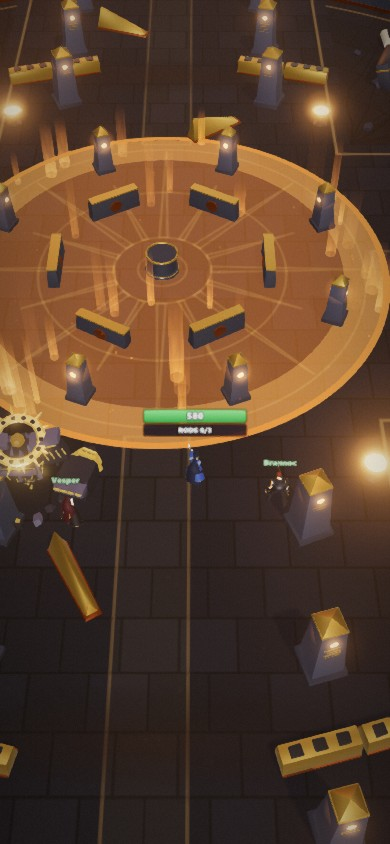
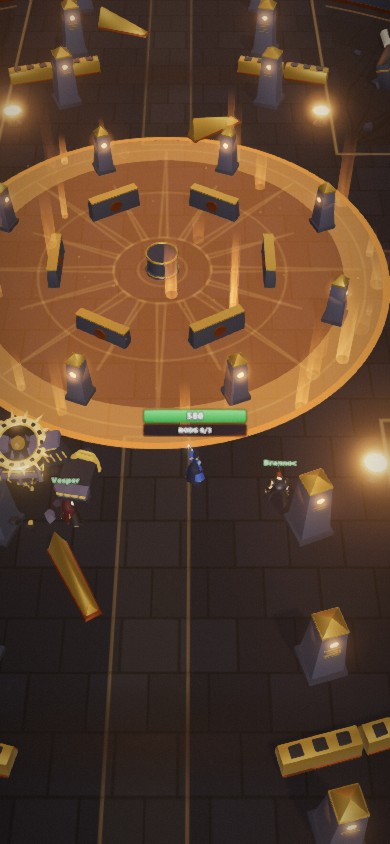
Raid: the Warden's party fight: docs, measurements, whom he hunts checked, the rubble not drawn until it shows
raid-check 234 rows (133 as they were, 101 new); the autopilot at bands 5, 10, 20 and 40; six and sixteen bots through the hub.

diff --git a/pipeline/tools/raid-check.js b/pipeline/tools/raid-check.js
@@ -1075,7 +1075,7 @@
       // would say of the others (how many stood in a zone) is fed in by hand, and what the brain reads of them is given to `aim`.
       {
         const { HOUR } = await import('/src/raid/sunWarden.ts');
-        const { BREACH, SUNFIRE, BRAND, CARRY, FOUR, fireRadius, hallFight } = await import('/src/raid/wardenHall.ts');
+        const { BREACH, SUNFIRE, BRAND, CARRY, FOUR, HUNT_S, fireRadius, hallFight } = await import('/src/raid/wardenHall.ts');
         const H = await import('/src/arenas/sunhall.ts');
         const hall = (band = 5, mode = 'play') => {
           d.startBoss({ def, link: new LocalLink(def, 1), seed: 'party', mode, band });
@@ -1358,6 +1358,31 @@
         check('Carry the Sun: behind the hero who shields, the carrier is not hit', take(() => send({ move: 'ray', fz: 10, x: 0.5, z: 20, target: 1, flag: true }), 2.8), 0);
         place(0.3, 19.5);
         check('Carry the Sun: the hero who shields takes the ray', take(() => send({ move: 'ray', fz: 10, x: 0.5, z: 20, target: 1, flag: true }), 2.8), 0.22);
+
+        // Whom he goes for (`BossDef.choose`). The brain asks it only with more than one screen, so it is asked here by hand: four
+        // heroes, two in the nave, one in each transept, nobody in the choir; `when` says he aimed at the lower seats longer ago.
+        hall(20);
+        {
+          const hs = [{ side: 0, x: 0, z: 30 }, { side: 1, x: 2, z: 31 }, { side: 2, x: 25, z: 7 }, { side: 3, x: -24, z: 8 }];
+          const ask = (time) => def.choose({ heroes: hs, boss: { x: 0, z: 3 }, time, when: (side) => side });
+          const quarter = (side) => H.quarterOf(hs[side].x, hs[side].z);
+          yes('whom he goes for: no fire and nobody carrying, it is the brain to say', ask(0) === undefined);
+          hallFight.carriers.add(3);
+          yes('whom he goes for: whoever carries a shard', ask(0) === 3);
+          hallFight.carriers.add(2);
+          yes('whom he goes for: of two carriers, the one he aimed at longer ago', ask(0) === 2);
+          hallFight.carriers.clear();
+          hallFight.fire = 12;
+          const first = ask(100);
+          yes('in the sunfire he hunts one quarter of the court', first === 2 && quarter(first) === 1);
+          yes('in the sunfire: and stays with it', [101, 105, 100 + HUNT_S - 1].every((t) => ask(t) === first));
+          const next = ask(100 + HUNT_S + 0.5);
+          yes('in the sunfire: then on to the next quarter with someone in it, past the empty one', next === 3 && quarter(next) === 3);
+          yes('in the sunfire: and round to the nave, to the one he aimed at longer ago', ask(100 + 2 * HUNT_S + 1) === 0);
+          hallFight.fire = 0;
+        }
+        fresh(0, 1);
+        yes('the court for two: whom he goes for is the brain\'s to say, whatever burns', def.choose({ heroes: [{ side: 0, x: 0, z: 10 }, { side: 1, x: 3, z: 10 }], boss: { x: 0, z: 3 }, time: 0, when: () => 0 }) === undefined);
 
         // The Four Hours.
         hall(40);

diff --git a/pipeline/tools/warden-shots.js b/pipeline/tools/warden-shots.js
@@ -150,8 +150,21 @@ if (!phone) {
   me(3, 11);
   stand([[-7, 13], [7, 16], [-5, 22], [4, 26], [16, 9], [-17, 5], [9, -4], [-8, -9], [2, -14], [-11.6, 20], [11.5, -6]]);
   zoomTo(1.7);
+  // What the room costs to draw on a phone's screen, whole and broken open: draw calls and triangles of one frame.
+  // (Counted over the whole frame: the game draws in several passes, and the counter starts over with each.)
+  const cost = () => {
+    const info = api.renderer.info;
+    info.autoReset = false;
+    info.reset();
+    api.render();
+    const seen = { calls: info.render.calls, triangles: info.render.triangles };
+    info.autoReset = true;
+    return seen;
+  };
+  out.whole = cost();
   send({ move: 'breach' });
   step(BREACH.warn + 6);
+  out.open = cost();
   me(15, -5);
   boss(10, -11);
   step(0.6);
@@ -164,6 +177,7 @@ if (!phone) {
   me(2, 7 + hallFight.fire + 2);
   step(0.6);
   out['warden-phone-sunfire'] = shot();
+  out.sunfire = cost();
 }
 out.arena = d.currentArena?.id;
 return out;

diff --git a/src/arenas/sunhall.ts b/src/arenas/sunhall.ts
@@ -356,6 +356,11 @@ export const sunHallArena: ArenaDef = {
       }
       before.group.visible = since < 0.4;
       after.group.visible = since > 1.6;
+      // The rubble stands inside the blocks until they fall: not drawn till then (a phone has draw calls to spare for nothing unseen).
+      for (const i of LAYOUT.rubble) {
+        const o = cover[i];
+        if (o) o.visible = since >= 0;
+      }
     };
     const me: HallShow = {
       reset() { since = -1; shake = 0; place(); },

diff --git a/pipeline/tools/party-raid.py b/pipeline/tools/party-raid.py
@@ -16,7 +16,8 @@ one public raid room, the host starts, every screen's autopilot plays. To find w
 --hall   the Sun Warden's hall (with --boss sun and three or more players): every second each screen says whether its hall
          has broken open, how far its sunfire has come, and how much cover stands. Prints when the hall broke on each screen
          (the fight's own clock), whether the screens agree on cover each second, and which of his moves each screen saw;
-         pictures as the hall breaks and of the sunfire.
+         pictures as the hall breaks and of the sunfire. With more than ten players the boost stops when High Noon begins,
+         so Carry the Sun is played unhelped (sixteen players are a fight tuned for twenty).
 
 It starts its own dev server (the game's hub lives in it) on the port and stops it by its PID; one already there is used
 and left alone. The bots' accounts are local (server/data/, git-ignored): delete them after (names start with v5bot). It
@@ -196,11 +197,18 @@ async def run(args):
             twin_seen = False
             # The Warden's hall: when each screen's broke open (the fight's clock), seconds on which the screens' cover differed.
             broke, fire_most, hall_last, cover_apart, hall_shots = {}, {}, [], [], set()
+            boost_off = False
             while time.time() - t0 < args.seconds:
                 await asyncio.sleep(1 if args.boss == "ash" or args.hall else 5)
                 t = time.time() - t0
                 now = [await pg.evaluate("() => _botRaid()") for pg in pages]
                 if args.hall:
+                    # More than ten players (Carry the Sun, The Four Hours): the boost only brings High Noon on, then the bots play unhelped.
+                    if args.boost and args.players > 10 and not boost_off and all(s.get("phase", 0) >= 1 for s in now):
+                        boost_off = True
+                        for pg in pages:
+                            await pg.evaluate("() => { window._botBoost = 0; }")
+                        print(f"      boost off at {t:.0f} s: High Noon has begun")
                     hall = [await pg.evaluate(HALL_JS) for pg in pages]
                     if all(hall):
                         hall_last = hall
@@ -210,6 +218,11 @@ async def run(args):
                             fire_most[i] = max(fire_most.get(i, 0), h["fire"])
                         if len({h["cover"] for h in hall}) > 1:
                             cover_apart.append((round(t), [h["cover"] for h in hall]))
+                        if any("carry" in h["seen"] for h in hall) and "hall-carry" not in hall_shots:
+                            hall_shots.add("hall-carry")
+                            await asyncio.sleep(9)
+                            await shot(pages[0], out / "hall-carry.png")
+                            await shot(pages[-1], out / "hall-carry-last.png")
                         for name, when in (("hall-breaking", any("breach" in h["seen"] for h in hall) and not any(h["open"] for h in hall)),
                                            ("hall-open", all(h["open"] for h in hall)), ("hall-sunfire", min(h["fire"] for h in hall) > 9)):
                             if when and name not in hall_shots:
@@ -259,6 +272,7 @@ async def run(args):
                 apart = f"{max(broke.values()) - min(broke.values())} ms apart" if len(broke) == len(pages) else f"only on {len(broke)} of {len(pages)} screens"
                 print(f"hall: broke open on every screen within {apart}; the sunfire came as far as {[fire_most.get(i, 0) for i in range(len(pages))]} m; "
                       f"cover at the end {[h['cover'] for h in hall_last]}; seconds with cover apart: {len(cover_apart)} {cover_apart[:6]}")
+                print(f"hall: kneels {[s.get('kneels') for s in now]}; hits by Carry the Sun's Noon {[s.get('hits', {}).get('carry', 0) for s in now]}; down {[bool(s.get('down')) for s in now]}")
                 for i, h in enumerate(hall_last):
                     print(f"hall: screen {i} saw {h['seen']}")
             if twin_seen:

diff --git a/docs/architecture/raid.md b/docs/architecture/raid.md
@@ -199,6 +199,12 @@ Everything else follows from these, and they are why two screens work without re
 3. **Each screen decides hits on its own hero only.** Walking out of a zone is a real dodge, as in a duel.
 4. **Everything both screens must agree on goes through the `RaidLink`:** boss HP, phase, stagger, kneeling, who is down, how it ended.
 
+For a party, rule 1 needs more than one hero's spot. `AimContext.heroes` gives a move's `aim` the heroes standing (it runs on the
+brain's screen only), and `aim` may name a `target` of its own for the cast. The hub passes a cast on field by field, so what the
+brain found rides in the fields there are (a hero in `target`, a count in `x`, yes or no in `flag`): see the Sun Warden's party
+mechanics. And for rule 4, a `stand` zone with `Threat.tally` is only counted: the hub says how many stood in it, and its move says
+what that means for everyone. `BossDef.choose` lets a boss name whom its brain goes for next.
+
 ## The pieces (`src/raid/`)
 
 | File | Role |
@@ -208,6 +214,7 @@ Everything else follows from these, and they are why two screens work without re
 | `brain.ts` | `BossBrain`: who it aims at, which move comes next, where it walks. Runs on one screen. Its rolls are seeded |
 | `script.ts` | `BossScript`: plays casts, draws their zones, lands them, decides the hits on this screen's hero. Several run at once, in both colours |
 | `sunWarden.ts`, `ashEmber.ts`, `heart.ts` | The bosses: numbers, phases, moves. `ashEmber.ts` makes Ash's and Ember's moves for a room (`movesFor`): the pit for two, and a party's pit for Twin Flames (`twinFlames`) |
+| `wardenHall.ts` | The Sun Warden's fight for a party beyond his own moves: the hall breaking open, the sunfire of his last phase, Branded, Carry the Sun, The Four Hours, the turns his great mechanics take, and whom he hunts |
 | `twin.ts` | Twin Flames: the ghost world and link that let one screen play the other boss's script as a look, the furious numbers, and `TwinLocalLink`, the two HP pools on one screen for the check tool |
 | `stage.ts` | `stageMove`: a boss's stage, its adds and their shots, from a few numbers. Both bosses have one |
 | `fxShow.ts` | The big moments' effects: `ShowFx`, one per fight (`PlayContext.show`), plays pooled one-shot pieces on its own clock: a shockwave over the floor, a rising column, shards, a meteor, a lava arc, rays along the floor, a charge-up, a beam's flash, and `triumph` for a mechanic done right. `Shell` (a stage's barrier, lit at its rim) and `RageAura` (the red heat round an enraged boss) |
@@ -272,14 +279,16 @@ all behind `party` in `src/raid/sunWarden.ts`, so the fight for two reads none o
 
 | What | In the hall |
 |---|---|
-| The Hour Strikes | Only here, in every phase (`HALL_PHASES`). Below |
+| The Hour Strikes | Only here, in every phase (`hallPhases`). Below |
+| The hall itself | Breaks open as The Long Hour begins; sunfire spreads from the Sun Well in Last Light. Below: "The hall transforms" |
+| Branded, Carry the Sun, The Four Hours | Only in a fight tuned for 10, 20 and 40 (`BossMove.minBand`). Below |
 | Enrage | 3:15 instead of 2:30: the party walks 40 m up the nave to him first, and each hour takes the fight away from him for a while |
 | What he aims (Pillar Fall, Fists, the ray) | Kept 1.8 m inside the hall's walls (`intoHall`), so no stone lands in the stone. At a hero in the gate's passage: down its middle |
 | Sun Order | Its wedges reach 19 m from the Sun Well (the crossing and its corners), not the whole floor: deep in an arm no edge of a wedge is near enough to step over |
 | Eclipse | Its far ring ends 20 m from him instead of at the rim |
 | Gathering Noon, the Long Hour's blow, Walking Sun, the late sunfire | The whole hall, as in the court. The stone round the hall hides what is drawn past its walls |
 | The hall's own walls | Cover like any other: round a corner Noon, the ray and the dial's blow do not reach. They never fall (`Obstacle.fixed`): a wall that saved a hero is only reported when it is a screen |
-| Sun shards | Whoever picks one up brings it in (one way in for each of the 40 seats). Still two shards, whatever the party's size |
+| Sun shards | Whoever picks one up brings it in (one way in for each of the 40 seats). Gathering Noon still has two shards, for a party under 16; for 16 and more Carry the Sun stands in its place, with a shard for every five |
 | Starts | Rows of eight just inside the south gate (`starts`, `partyStart` in `src/duel.ts`). Seat 39 of 40 stands on a fallen halo piece and is pushed off it |
 | Gates | The way in stands in the gate's passage; the way out before the throne, 4 m from the choir's end (`BossDef.gates.exitR`) |
 
@@ -305,6 +314,153 @@ bell."). Pictures: `docs/raid/hour-called.jpg`, `hour-called-far.jpg`, `hour-lat
 
 In forty fights of ten heroes alone on the autopilot in the hall, about three hours were called a fight, and the bell hit five times
 in all.
+
+### The hall transforms, and what comes only for a big party (2026-11-12)
+
+User, 2026-11-12: "when there will be second stage the arena will transform, and also at the final stage", and "mechanics that only
+is cast when there is at least 10 players, and for 20 and 40". All of it is in `src/raid/wardenHall.ts`; none of it is named by a
+phase of the court for two. Pictures (`pipeline/tools/warden-shots.js`): `docs/raid/warden-cracking.jpg`, `warden-falling.jpg`,
+`warden-open-far.jpg`, `warden-open.jpg`, `warden-hour-open-far.jpg`, `warden-sunfire-far.jpg`, `warden-sunfire.jpg`, `warden-branded.jpg`,
+`warden-branded-burst.jpg`, `warden-carry-far.jpg`, `warden-carry.jpg`, `warden-four-far.jpg`, `warden-four.jpg`,
+`warden-phone-open.jpg`, `warden-phone-sunfire.jpg`.
+
+| | When | For |
+|---|---|---|
+| The hall breaks open (`breach`) | As The Long Hour begins (50 % HP), beside his stage | Any party |
+| The sun comes down (`sunfall`) | As Last Light begins (35 % HP) | Any party |
+| Branded (`brand`) | From High Noon on, about every 28 s, by its own clock | A fight tuned for 10 or more |
+| Carry the Sun (`carry`) | It opens High Noon where Gathering Noon did, and then takes turns with the hour | 20 or more |
+| The Four Hours (`four`) | From High Noon on, in the turns below | 40 |
+
+**What the hub lets through decides how they are built.** The hub passes a cast on field by field (`boss_cast` in `server/hub.mjs`:
+id, move, step, x, z, fx, fz, dir, seed, target, alone, rim, form, flag, which), so a new field on `BossCast` would not arrive. What
+the brain reads of the heroes therefore rides in the fields there are: **who** in `target` (one cast for each hero: `BossMove.aim` may
+return a `target` of its own), **how many** in `x` of a move with no body, **yes or no** in `flag`. `AimContext.heroes` gives `aim` the
+heroes standing: `aim` runs on the brain's screen only, so rule 1 holds. What the whole party must agree on comes back from the hub:
+who took a shard or broke a stone (`done`), and how many stood in a zone (`stood`). A zone that is only counted has `Threat.tally`:
+the move says what the count means, and what it returns the whole party pays.
+
+**The hall breaks open.** The four corner blocks of the stone crack for 6 s (`BREACH.warn`; 3 s when it has to come with the sunfire):
+a pale orange band 4 m wide runs along each wall that goes, the blocks tremble, chips and dust come off them, and the camera jolts
+three times. Then they fall in clouds of dust, the low south ones first and each from the hall's corner outward (32 pieces, `falls` in
+`src/arenas/real/sunhall.json`, cut in `blender/arenas/real/sunhall.py`). What changes in the game at that moment, on every screen
+from the same cast:
+
+| | |
+|---|---|
+| The walls between the arms | The eight stretches listed as `opens` leave the game (`PlayContext.breakCover`): walk, sight, bolts and his ray go through |
+| The floor | The cross and the round court between its arms, 36.4 m from the Sun Well to its wall (`HALL_COURT`: a circle through the transepts' far corners). The ends of the nave (to 44 m) and of the choir (to 40 m) stay beyond it. `inHall`, `intoHall` and so his aim answer for the new shape |
+| An arm | Its quarter of the court: the quarter turn round the arm's line, from 13 m off the Sun Well outward (`inArm`). The Hour Strikes burns three quarters and the crossing, drawn as three wedges and a quarter disc; the gold line across the safe arm's mouth is a bow 13 m from the well |
+| Rubble | 24 pieces, six in each corner: low slabs and blocks in the south (1.1 m, under the 1.3 m of stone that hid them), tall ones in the north (2.6 m). Cover like any other; the twelve slabs are walls and can be broken |
+| The court's own wall | 24 stretches of fixed wall on its circle |
+| Who is hit | Whoever stands within 4 m of a wall that goes, as it goes: 30 % of max HP (`BREACH.share`). Nobody is pushed |
+| The walk planner | Charts the floor anew by itself: its chart is keyed by the room's fixed walls (`Navigator.chart`) |
+
+**How the rubble and the court's wall are "added".** They are not: they are in the room's obstacle list from the start, standing
+inside the stone, where no walk, look or ray reaches them until the walls in front of them go. So nothing has to be added at the
+same moment on every screen, a stone raised by `addStone` (which is timed, round, and breaks under his ray for a reward) is not
+misused for it, and nobody can stand where rubble lands, so nobody has to be pushed out of it. It is why the hall has 138 obstacles
+with its corners, not 86.
+
+**The cast.** `breach` comes by the phase's clock (`BossPhase.timed`, at once), not as the phase's opener: that is the stage, whose
+cast is cut short when its stones are broken early, and the fall must not be. One hit can take him through two phases at once; then
+The Long Hour's clock never runs, and `sunfall` breaks the hall itself. The room's state (`hallBreak` in `src/arenas/sunhall.ts`,
+`hallFight`) is set only from a cast and reset by `resize` before each fight.
+
+**The sun comes down.** Sunfire wells up at the Sun Well for 5 s, then burns and spreads: 6 m from the well at first, 0.12 m a
+second, 24 m at last, after two and a half minutes (`SUNFIRE`, `fireRadius`). It costs 6 % of max HP a second (twice that once he
+has enraged). That leaves a ring 12 m wide inside the court's wall, and the ends of the nave and the choir. Its edge is drawn in the
+zones' "leave" colour. One `Threat.hits` that stays to the fight's end, so each screen works out its own hero from the cast's time.
+
+| What | In the sunfire |
+|---|---|
+| He | Leaves the middle: 3 m/s instead of 2, and he comes within 2.2 m of his target instead of 4.5, so a hero who fights hand to hand need not stand in the fire for it (`SUN_WARDEN.speed`, `keepAt`) |
+| Whom he goes for | One quarter of the court at a time, 14 s each, then the next with someone in it (`BossDef.choose`, `wardenChoice`). Alone and for two the brain's own rule, as it was |
+| The Hour Strikes | Three of the four quarters and the crossing, as before; the lit road's goal lies past the fire. Branded may come during it |
+| Gathering Noon | Its shards fall 7 m past the fire, and are home 3.5 m outside its edge |
+| Carry the Sun, The Four Hours | A shard is home 1.6 m outside the fire's edge, and that edge moves; the arms' tasks lie past it |
+| Anchors | Its circles lie either side of him, 7.6 m off, where the group he is with can reach them; never nearer the fire than 4 m |
+| What closes in past 5 minutes (`late`) | In the hall it comes from the walls inward to 26 m ("The hall burns"), so the two leave nothing to stand on. The court for two keeps "The sun comes down", from 7 m outward |
+
+**His great mechanics take turns.** The Hour Strikes, Carry the Sun and The Four Hours each hold the floor for about half a minute
+(`BossMove.holds`) and come as soon as they are ready. Left alone they followed one another without a gap (measured: Carry the Sun,
+the hour, Carry the Sun, the hour, back to back). Now only the one whose turn it is stands in his list, and none for 16 s after one
+ends (`REST`, `nextGreat`, on the brain's screen): the hour for any party; the hour and Carry the Sun in turn for 20 or more; the
+hour, Carry the Sun, the hour, The Four Hours for 40. In his last phase Branded may come during any of them: two mechanics at once.
+
+**Branded** (10 or more).
+
+| | |
+|---|---|
+| Who | One standing hero in eight, five at most, drawn by the cast's seed from those the brain sees standing (`BRAND.per`, `most`). Ten standing: one; twenty: three; forty: five |
+| What shows | A sun over each branded hero's head that grows, and an orange ring 5 m round it that follows it. Only a look (`heroAt`): to an AI the ring of another is a zone to walk out of that never lands |
+| The burst | 5 s later, where the brain sees each of them stand then: a cast of its own for each (the move's last five steps), landing 0.4 s after it comes |
+| What it costs | Whoever else stands in it 30 %, the branded hero 8 % |
+| The whole party | The hub counts who stood in each burst. Two or more beside the branded hero: everyone pays 6 % for each of them, 24 % at most ("the brand burns the crowd") |
+| A kneel or a new phase | Drops the bursts still to come, as it drops any move's later steps: the brands go out |
+
+**Carry the Sun** (20 or more). The party's Gathering Noon, in its place.
+
+| | |
+|---|---|
+| Shards | One for every five standing, eight at most (`CARRY.per`, `most`), counted by the brain. In the hall whole: in turn at three quarters of each arm's length (33 m down the nave, 30 m up the choir, 25.5 m out each transept), from the fifth on two an arm. In the round court: evenly round it, 30 m from the well. Each on open floor (`freeSpot`, from the hall as it was built, so every screen finds the same spot) |
+| Carrying | Whoever walks over one carries it, 15 % slower, and brings it to the Sun Well; one shard a hero. The hub says who took which |
+| His ray | Comes for a carrier (`wardenChoice`), and throws back 5 m whoever it hits. It breaks on cover and on a fallen stone as always, and on a hero: the brain finds the first hero standing in its way and flags the cast with that hero's spot; the ray ends there, and that hero takes it for the carrier |
+| Meanwhile | He stands 3 s for the call, then does only Sun Ray and Pillar Fall (whose stones break the ray) |
+| Noon | 36 s after the call (never under 32 s at a higher tier). Everyone pays 12 % and 56 % shared out over the shards not home: none home 68 %, one of four missing 26 %. No cover saves from it. All home: no Noon, 5 % of his HP, and he kneels (`RAID_REWARDS.sun.carry`) |
+
+**The Four Hours** (40). Each arm gets a task at the same time; the seed turns the tasks round the arms. A word stands over each arm
+(CARRY, HOLD, BREAK, STAND), and his cast bar names the arms still open ("The Four Hours · NAVE EAST CHOIR WEST").
+
+| Arm | What it asks, of forty standing | Done when |
+|---|---|---|
+| Carry | Two shards near its far end, to the Sun Well | Both are home |
+| Hold | Three gold circles | Each has a hero in it as the tasks end |
+| Break | Three of his hour stones (1,392 HP each at band 40) | All three are broken |
+| Stand | Three lanes down the arm: two burn (25 %), one is gold | Five heroes stand in the gold lane as the tasks end |
+
+The tasks end 34 s after the call, 4 s before the hall burns, so the hub's counts are back by then. Each arm done pays a quarter of
+his stagger gauge (`RAID_REWARDS.sun.foura` to `fourd`): all four, and he kneels. Each arm not done burns the whole hall for 18 % of
+max HP: all four, 72 %. With fewer standing each arm asks less (twenty: one shard, two circles, three in the lane, stones of half
+the HP).
+
+**Measured** (2026-11-12). One autopilot hero, the boss's HP for one, the same ten heroes as before (Lyra, Kaia, Sefu, Isolde,
+Vesper, Brannoc, Nyx, Bram, Zephyr, Sirix), two fights each at every size (`_raid(names, 2, { band })`). No errors, and no fight that never ended.
+Twenty fights swing by more than the rows differ, so read them as: nothing is broken, and one hero alone is not what these are for.
+
+| Tuned for | Clears | Seconds a fight | Damage a second | Fights that enraged | Hits by the new things, in 20 fights | What killed most |
+|---|---|---|---|---|---|---|
+| 5 | 6 of 20 | 131 to 210 | 13 to 24 | 6 | the sunfire 3 | Fists 6, Noon 2, the sunfire 2, Anchors 1 |
+| 10 | 4 of 20 | 134 to 199 | 12 to 24 | 6 | the falling walls 1, the sunfire 10, Branded 29 | Fists 5, Stone Sweep 4, the dial 2, Sun Order 1 |
+| 20 | 2 of 20 | 96 to 237 | 14 to 23 | 6 | Branded 38, Carry the Sun's Noon 1 | Branded 8, Fists 5, Pillar Fall 2, Carry the Sun's Noon 1 |
+| 40 | 0 of 20 | 146 to 227 | 13 to 21 | 11 | the sunfire 9, Branded 34, The Four Hours 5 | The Four Hours 4, Fists 3, Stone Sweep 3, Anchors 2 |
+
+One hero stands for the whole party here. So it is always the branded one: the light hit about every 28 s, which nothing avoids
+(29 to 38 of them in twenty fights; at 20 it was the last blow eight times). It carries the one shard itself: Noon landed on it
+once in twenty fights. It cannot do four arms at once: The Four Hours hit it five times in twenty fights, and four of those were
+the last blow. The falling walls caught it once in the 80 fights, and the sunfire burnt it 22 times in them.
+
+**A real party through the real hub** (`python pipeline/tools/party-raid.py <out> --players 6 --seconds 240 --boost 30 --hall`: six
+headless pages, six throwaway accounts, a fight tuned for ten, every bot also taking 30 HP a second off him so the fight ends).
+Run twice. The second: the hall broke open on all six screens within 0.36 s of each other (the cast goes through the hub, and each
+screen counts its 6 s from when it came); the sunfire had come 12.1 m on every screen when he fell; every screen had the same cover
+at the end (130 pieces) and the same boss HP all the way, within one message; the screens' cover differed on 3 of 165 seconds, by one fallen stone that
+one screen had a moment longer; nobody fell, no errors, won after 2:38 of fight (the hall broke at 1:10, the sunfire began at
+1:41). The first run: won after 3:02 with three of six standing and no errors; its bots were burnt by the sunfire 7 to 13 times
+each, the second run's 0 to 7. Pictures with the game's own HUD:
+`docs/raid/warden-online-breaking.jpg`, `warden-online-open.jpg`, `warden-online-sunfire.jpg`.
+
+**Sixteen bots, a fight tuned for twenty,** once (`--players 16 --boost 60 --hall`; this computer runs sixteen pages, slowly). Carry
+the Sun was cast (it is in the lists of the two screens that were read; the other fourteen's were cut off the output) and the
+host's bot carried a shard, so the hub had said who took it (`hall-carry.png` of that run). The hall broke, the sunfire came,
+nobody fell, no errors on any of the sixteen. Its end was not seen: the boost had him at 51 % HP nine seconds into it, and his stage
+begins at 50 % and calls it off. The screens' hall broke within 5 s of each other in that run, against 0.36 s with six pages: most
+likely sixteen pages on one computer running slowly, but that was not looked into.
+
+**What the room costs to draw** (one frame at 390 x 844 with eleven partners, counted by the renderer): 684 draw calls and 458,000
+triangles with the hall whole, 615 and 450,000 once it is open, 665 with the sunfire. The 32 falling pieces are about 70 of the
+calls while they stand; the rubble is not drawn until they fall. Not measured on a real phone, and not against the hall as it was:
+its file had 70 objects in 236 drawn parts, and has 126 in 438 now.
 
 ## Ash and Ember
 
@@ -509,6 +665,14 @@ Two things a room that is not round needed in the walk planner (`src/nav.ts`):
   squares, by the part each can be reached in (`Navigator.parts`); only an order into another part, or into one of the room's own
   walls, is moved. A room without such walls has no chart and nothing changes.
 
+**It breaks open** (2026-11-12). The four corner blocks are cut in the Blender file into what stays (past the round court's wall,
+36.4 m from the Sun Well) and 32 pieces that fall, each an object of its own (`fall<corner>_<piece>`, listed in the json as `falls`
+beside `opens`, the walls that go, `rubble` and `court`). `hallBreak` in `src/arenas/sunhall.ts` is the room's state: `crack` makes
+the pieces tremble, `fall` drops them (each after its own delay, the tall north ones last) and makes `inHall`, `intoHall` and
+`inArm` answer for the round court; `reset` before each fight. The lights on the blocks go out with them, and the court's own
+windows are lit once they are down. The floor under the blocks is drawn from the start: bare rock in rough slabs round the well,
+cracked from the hall's corners. Rubble and the court's wall are obstacles from the start (see the Sun Warden, above).
+
 Six of its corners lie behind a brazier that stands a body's width from both walls. A hero pushed in there stood in a pocket the
 planner knows no way out of, so each is solid to the game, from the brazier to the corner (`CORNERS`), with nothing drawn for it.
 
@@ -572,8 +736,18 @@ it, casting does), and it gets up with half its HP. Twice a fight per hero. Both
   bots through the hub. What forty heroes do to The Hour Strikes (a crowd in one arm's mouth) was not seen. Its cost on a phone was
   not measured, only counted: late in the count about 45 tongues of flame and 300 embers at once, and 42 columns more for under a
   second at the bell; each tongue and column is a draw call of its own.
-- **The Warden's mechanics are not scaled to the band.** Noon still asks for two shards and Anchors for two circles, whatever the
-  party's size; only his HP and gauge grow.
+- **The Warden's older mechanics are not scaled to the band.** Gathering Noon (under 16 players) still asks for two shards and
+  Anchors for two circles; his stage has three stones whatever the party's size.
+- **The Four Hours has not crossed the real hub, and Carry the Sun only its beginning.** Six bots are a fight tuned for ten, which
+  has Branded and the hall's two changes. Sixteen bots saw Carry the Sun cast and a shard picked up, not its end; thirty-one pages
+  were not tried. Both are built from what the hub already carries (who took a spot, how many stood in a zone, a reward by its
+  key), and `_raidCheck` feeds those by hand.
+- **A shard's carrier can still cast.** The design says it cannot; that needs `src/duel.ts`.
+- **A carrier that falls keeps its shard,** and gets it home only if someone gets the hero up in time.
+- **A kneel or a new phase puts the brands out:** it drops the bursts still to come, as it drops any move's later steps.
+- **The hall has 138 obstacles** with the rubble and the court's wall. A walk's plan there costs more than it did with 86: an
+  autopilot fight of about 150 s ran in 3 to 11 s here, against about 4 s before. Not measured on a phone.
+- **A screen that takes the brain over** starts his great mechanics' turns from the first, with no breath before it.
 - **The autopilot fights worse in the hall than in the court:** 9 clears of 40 against 8 of 20 for the same ten heroes, and its
   fights are 30 to 70 s longer. It walks 40 m to him first, and during an hour it stands at the safe arm's mouth, where a melee hero
   does not reach him. A person would lead him into the arm.
@@ -656,6 +830,16 @@ it, casting does), and it gets up with half its HP. Twice a fight per hero. Both
 - `_raidCheck()` also has the hall's rows: the hour never comes in the court for two; in the hall each seed's arm is safe and the
   rest is hit; the bell's time and its floor at a higher tier; what he may do meanwhile; a stage calling it off; the autopilot's run
   from the gate to the choir; the hall's walls as cover that stands; his aim and his floor-wide moves in the hall.
+- `_raidCheck()` also has the party's rows (101 of its 234): which band sees which mechanic, and his great mechanics' turns; the
+  hall's shape before and after it breaks, who is struck, the autopilot walking clear, the hour in the round court, the fall coming
+  with The Long Hour and from Last Light when one hit passed two phases; the sunfire's cost, its edge by its clock, the autopilot
+  keeping out; Branded by the brain's `aim` for 40 and 10 standing, what a burst costs whom, a burst in the crowd (the hub's count
+  fed by hand); Carry the Sun's shards on open floor in both shapes, a shard carried home, what Noon costs with some home, the kneel,
+  the ray stopped by a hero's body; The Four Hours' tasks, each arm done by what the hub would say, and the cast bar naming the
+  arms; whom he goes for (a carrier, then quarter by quarter in the sunfire), asked by hand. One row checks that every cast he
+  sends has only the fields the hub passes on.
+- `pipeline/tools/warden-shots.js`: the pictures of the party fight from the game's camera, with eleven partners who stand where
+  they are put. `pipeline/tools/party-raid.py --hall`: when the hall broke open on each screen, and whether their cover agrees.
 - `pipeline/tools/hour-walk.js`: the autopilot's seconds from the far end of each arm to each other arm, for the hour's time.
   `pipeline/tools/hour-shots.js`: the pictures of The Hour Strikes from the game's camera. Both run headless with
   `pipeline/tools/page-shots.py`.

diff --git a/docs/STATUS.md b/docs/STATUS.md
@@ -20,11 +20,13 @@ works: `docs/architecture/raid.md`, "The hall transforms, and what comes only fo
   the cross becomes a round court with rubble as cover); sunfire spreads from the Sun Well for the whole last phase and he hunts the
   party group by group; Branded for a raid of 6 or more, Carry the Sun for 16 or more, The Four Hours for 31 or more. The raid for
   one and two is untouched.
-- **Checked.** Type check, build, `npm run test:server`. `_raidCheck()` 226 rows (the 133 as they were, 93 new), `_raidAsh()` 77,
+- **Checked.** Type check, build, `npm run test:server`. `_raidCheck()` 234 rows (the 133 as they were, 101 new), `_raidAsh()` 77,
   `_raidHeart()` 71, `_raidUpgrades()` 40, `_raidTwin()` 72. The autopilot at the four sizes, 80 fights, no errors and none that never
-  ends. Six bots through the real hub, twice: the hall broke on all six screens within 0.36 s, same cover and boss HP, no errors.
-- **Not checked.** A person playing. Carry the Sun and The Four Hours through the real hub (six bots are a fight tuned for ten;
-  they are checked on one screen with the hub's answers fed by hand). More than six screens. A real phone.
+  ends (6, 4, 2 and 0 clears of 20: one hero cannot do a party's mechanics). Six bots through the real hub, twice: the hall broke on
+  all six screens within 0.36 s, same cover and boss HP, no errors, won. Sixteen bots once: Carry the Sun cast and a shard picked
+  up on sixteen screens, no errors.
+- **Not checked.** A person playing. The Four Hours through the real hub, and Carry the Sun to its end (both are checked on one
+  screen with the hub's answers fed by hand). A real phone: one frame at phone size is 684 draw calls with the hall whole.
 - **Not built as asked.** A shard's carrier can still cast: stopping its spells needs `src/duel.ts`, which was another helper's.
 - **Before a deploy.** `PROTOCOL` in `server/protocol.mjs` must be raised: the hall's shape and five new rewards are rules two
   screens and the hub must agree on. Rebuild after a change to the hall:
